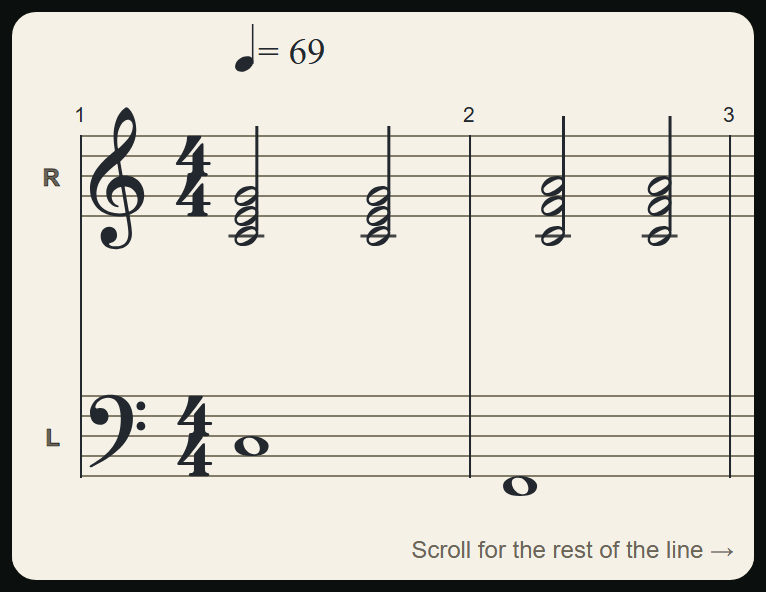
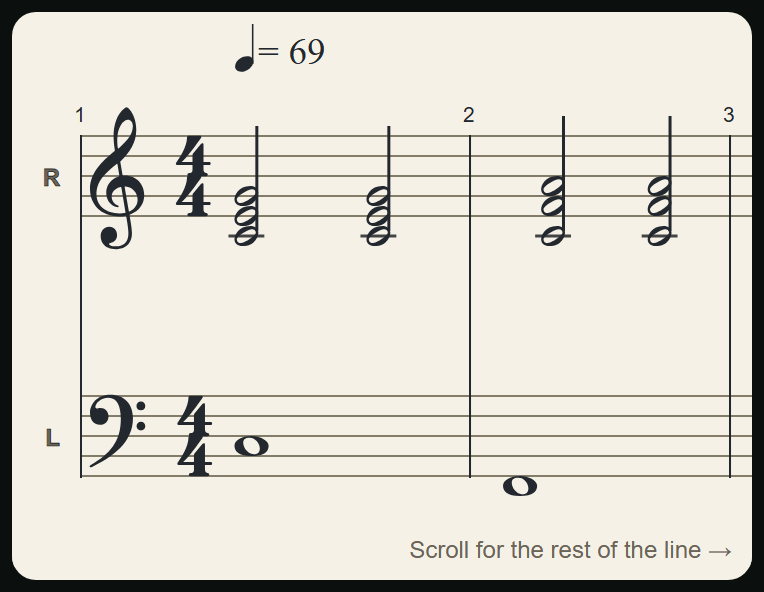
Accept learning wave after full regression and desktop verification
38 gates pass; preserve the original lesson board and verify guided credit, lifecycle, responsive controls and source-matched desktop delivery.

diff --git a/js/learning-ui.css b/js/learning-ui.css
@@ -163,6 +163,10 @@
 /* App-drawn inside the canon: every box-and-ink pair is written here together,
    so a reverted stylesheet can never take the ink without the box. */
 .lw-quests { display: block; margin: 18px 0 0; padding: 0; }
+#screen-lessons:has(> #lw-block) { flex-direction: column; align-items: center; justify-content: flex-start; }
+#screen-lessons:has(> #lw-block) > * { flex-shrink: 0; }
+#screen-lessons:has(> #lw-block) > :first-child { max-width: 100%; }
+#screen-lessons > #lw-block { width: min(100%, 756px); box-sizing: border-box; padding: 0 24px 24px; }
 .lw-quests-head {
   display: flex; align-items: baseline; justify-content: space-between; gap: 12px;
   margin: 0 0 8px;
@@ -283,6 +287,7 @@
   .lw-facts dd { margin-bottom: 7px; }
   .lw-quest-row { flex-wrap: wrap; }
   .lw-quest-state { width: 100%; }
+  .lw-quests-next .lw-quest-state { width: auto; }
   .passage-actions button { flex: 1 1 46%; }
   .lw-tap { width: 100%; }
 }

diff --git a/reports/learning-wave-acceptance.md b/reports/learning-wave-acceptance.md
@@ -1,6 +1,6 @@
 # Keys learning wave — supervisor acceptance
 
-Status: INTEGRATION VERIFICATION IN PROGRESS. This is not a completion receipt.
+Status: ACCEPTED — Keys v133, 2026-09-13. All six packages are connected; see `learning-wave-integration.md` for the feature map.
 
 ## Delivery scope
 
@@ -15,24 +15,27 @@ Status: INTEGRATION VERIFICATION IN PROGRESS. This is not a completion receipt.
 
 The outgoing desktop handoff contained source changes absent from Git HEAD. Reconciled 10 runtime/test files and 385 changed/new artwork files into the authoritative source, with backups and SHA256 verification. See `outgoing-handoff-reconciliation.json`.
 
-Library collections, recent Learning ordering, exercise exclusions, result-card visibility, restart, seek-aware Hear, recoverable guide controls and immersion are acceptance requirements. Static inspection confirms the outgoing app hooks were merged; final regression suite pending.
+Library collections, recent Learning ordering, exercise exclusions, result-card visibility, restart, seek-aware Hear, recoverable guide controls and immersion were preserved. Upstream v132 history at `00cced0` was merged through `2ae7a73`, following the wave checkpoint `a54e811`.
 
-## Verification recorded so far
+## Final verification
 
 - Root independently ran `test/reading-session.mjs`: 18 checks passed.
-- Root independently ran revised `test/learning-lab.mjs`: 52 checks passed. Covers all 146 base steps and all 50 alternate transfer exercises with simulated input; 21 unsupported-measurement paths require valid self-assessment rather than invented passes.
+- Revised `test/learning-lab.mjs`: 54 checks passed. Covers all 146 base steps and all 50 alternate transfer exercises with simulated input; 21 unsupported-measurement paths require valid self-assessment rather than invented passes. Guided passages use actual note evidence for practice success, never independent credit.
 - Root independently ran `test/lab-score.mjs`: 3 checks passed.
-- Renderer author ran `tools/lab-score-probe.mjs`: 41/41 checks, 204 exercises, 1336 noteheads at their expected staff positions. Root inspected final flat, triplet and tie/slur captures. Final full-suite rerun pending.
-- Independent Opus reading, curriculum and UI reviews were performed. Root verified findings against code/reproductions. Curriculum findings fixed; final UI findings still in integration.
-- Latest in-progress full learning UI probe reached 94/97 before the single-pass passage, retry and repair fixes. This is NOT acceptance.
-- `tools/worklist.mjs` now invokes the authoritative complete gate roster, replacing its stale subset. Complete run pending.
+- Final engraving browser gate: 41/41 checks, 204 exercises, 1336 noteheads at their expected staff positions. Root inspected final flat, triplet and tie/slur captures.
+- Independent Opus 5 reading, curriculum and UI reviews were performed. Root verified and fixed their confirmed findings.
+- Full learning UI: 115/115. Lifecycle: 4/4 on both preview and delivered desktop. Core: 503 checks. Existing lesson walkthrough: 76/76; teacher walkthrough: 33/33; learning trial: 53/53; finish card: 36/36; navigation: 30/30.
+- Complete final gate run: **38/38 green in 751 seconds**, on the source preview at port 4193, including isolated retries. Logs are retained locally in `reports/gate-logs`.
+- The worklist now uses the complete roster. Its duplicate early geometry pass reported a calibration gap under concurrent load; the authoritative isolated gate subsequently passed all 16 screens. The redundant separate pass was removed so geometry has one owner. Final static worklist: 0 open, one pre-existing form-rating decision for Mark.
+- Final desktop/390px rendered checks preserve the existing board and visual language. The phone worked action is visible at y670–717 in a 900px viewport, with no horizontal overflow; longer guidance remains in an accessible disclosure. Impeccable detector: no findings on the UI module.
+- Integration fixes include placing the learning extension after the original lesson board, updating navigation and theory expectations, and stabilizing the engraving test at viewport changes. The responsive gate excludes unpainted closed-disclosure content and also checks loop controls while open. No thresholds were reduced.
 
 ## Boundaries
 
-Authoritative checkout: `C:\Users\markh\keys-piano-astra`, starting HEAD `cd4e5a6`, branch `library-collections`.
-Preview: http://localhost:4193/ . Source hash checked during implementation; final hash check pending.
-Normal desktop copy `C:\Users\markh\keys-piano` (port 4180): unchanged by this wave so far.
-Git commit/push: pending. Public deployment: not performed.
+Authoritative checkout: `C:\Users\markh\keys-piano-astra`, starting HEAD `cd4e5a6`, delivery branch `feature/gamified-learning-wave`.
+Preview: http://localhost:4193/ . Source/served bytes verified.
+Normal desktop copy `C:\Users\markh\keys-piano` (port 4180): updated to keys-v133 after backing up the previous runtime. 62/62 runtime files byte-identical; served app, learning module, CSS and service worker verified.
+Final commit and push are recorded in repository history and the handoff. Public deployment: not performed.
 No changes to Mark's browser progress. Browser probes use disposable profiles.
 
 Hardware acceptance on the P-45, human timing tolerances and actual learning/retention outcomes have not been measured. Generated reading and transfer pools are finite and reported honestly. Self-assessment is recorded separately from measured competence.

diff --git a/reports/learning-wave-integration.md b/reports/learning-wave-integration.md
@@ -1,0 +1,20 @@
+# Learning and theory wave integration
+
+The six packages from the transcript audit are connected to the existing app. This report supersedes the earlier package reports' historical "not wired yet" notes. Final verification and delivery state are in `learning-wave-acceptance.md`.
+
+| Area | Implemented behaviour |
+| --- | --- |
+| Reading | Separate guided learning and first-reading modes; preview, chosen tempo, count-in and pulse; persistent exposure receipts; separate pitch, rhythm and continuity results; honest help/retry/partial-scope credit and preserved earlier progress. |
+| Written rhythm | Authored notation, tap/hold and note-release assessment for durations, rests, dots, ties, 3/4, 6/8 and triplets. Existing ear-copy rhythm remains available. Repair targets the selected bar. |
+| Notation | Flats, naturals, key signatures, accidental rules, ledger notes, changing positions, interval/look-ahead and aligned two-hand reading. LabScore draws the authored spelling, rests, ties, slurs, tuplets and expression marks. |
+| Applied theory | Four verified catalogue passages and an original cadence study connect harmony and inversions to actual playing. Unsupported catalogue annotations are refused rather than guessed. |
+| Technique and expression | Technique detours preserve the actual passage, range, tempo, hand and help settings, including reload recovery. Touch, dynamics, balance and pedal activities distinguish measured input from listening self-assessment. |
+| Route and rewards | Configurable reading/skill/passage/enjoyment route; skippable and reorderable. Twenty-nine cards progress through demonstration, guided work, independent work, later recall and transfer. Practice, reading and repertoire evidence remain distinct. |
+
+There are 146 base stages and 50 alternate transfer exercises. New material is finite: exhausted pools remain useful practice and stop claiming novelty. Assisted performances can succeed as practice without filling independent, recall or transfer badges. Guided passage success uses actual played-note evidence, because the repertoire engine's weighted score for flawless wait-mode input is 80.
+
+Independent Opus 5 reviews covered reading, curriculum and UI behaviour. Codex verified findings and supervised fixes, including retry guards, passage attribution, one-bar repair, authored accidental rendering, valid self-assessment, animation cancellation and saved-result reconstruction. The existing library, collections, song tiers, score cards, seek/restart, guide and immersion work was retained and merged with upstream v132 history.
+
+The new surfaces use the app's existing typography, cream notation panels, dark palette and mint actions. Longer worked-example guidance is available under an accessible disclosure; the primary worked action is visible at 390px without shrinking the score. Keyboard and reduced-motion support remain in place.
+
+No learner efficacy claim follows from simulated tests. A real P-45 session and actual retention over time remain human acceptance work. The app cannot infer gaze, posture, fingering or artistic intent from MIDI.
